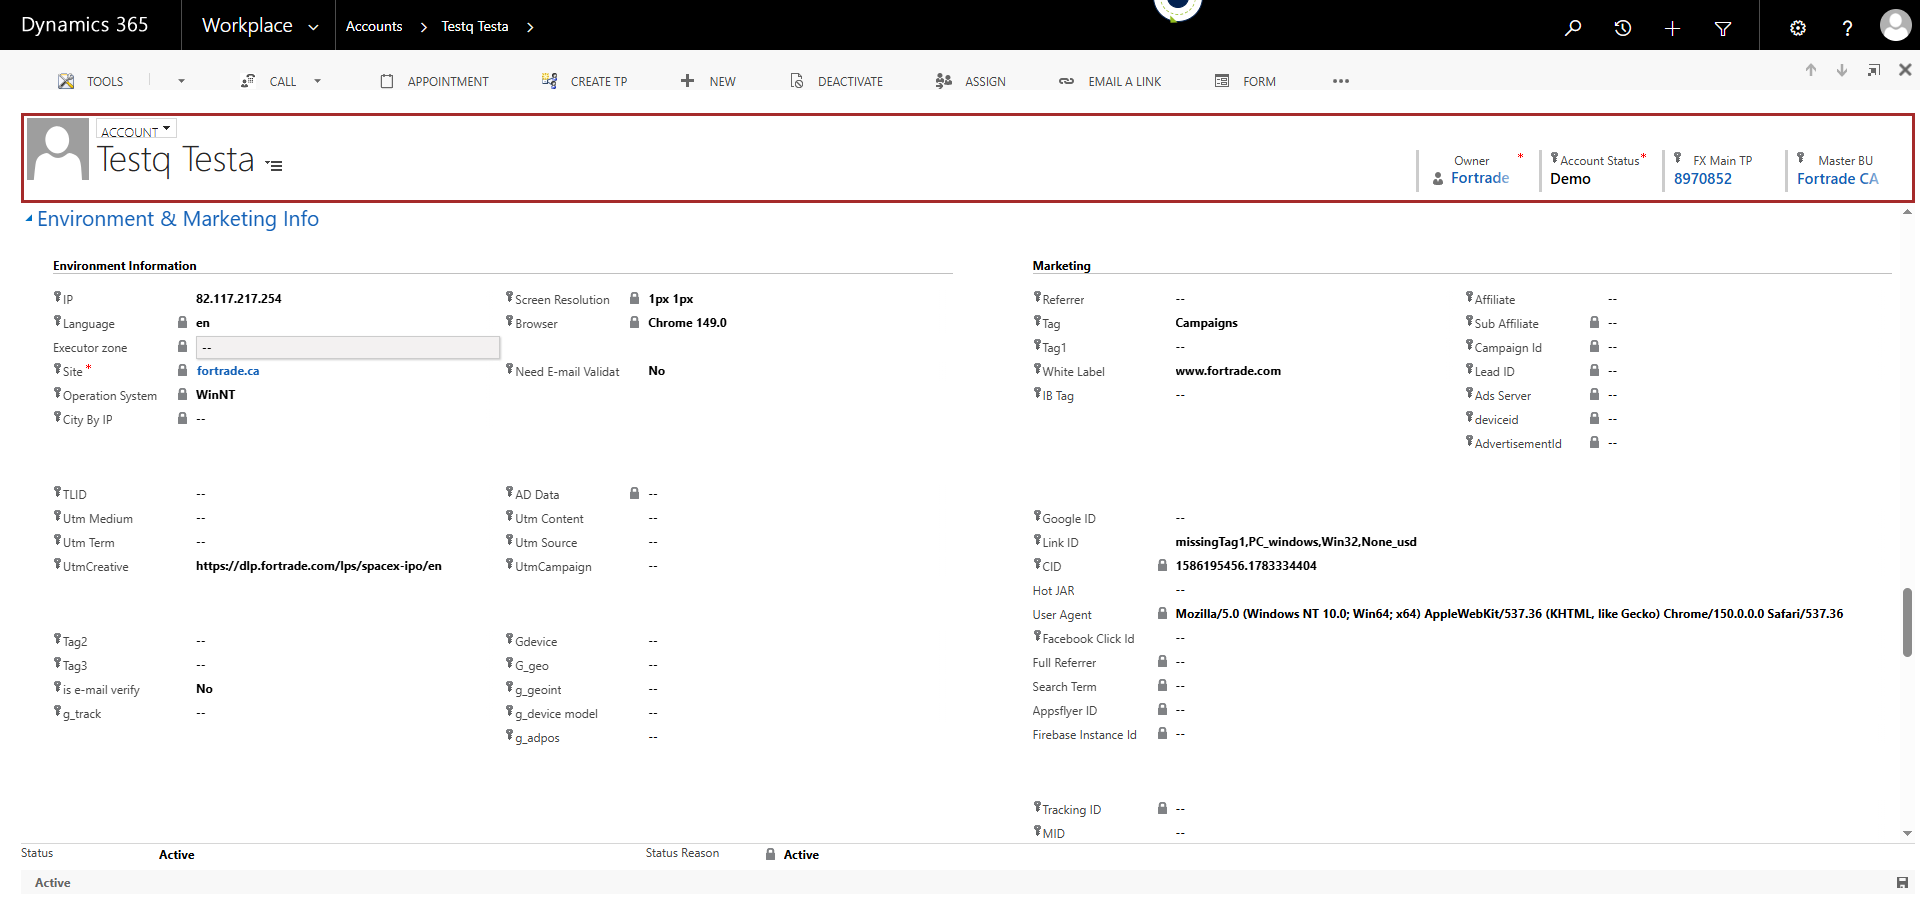
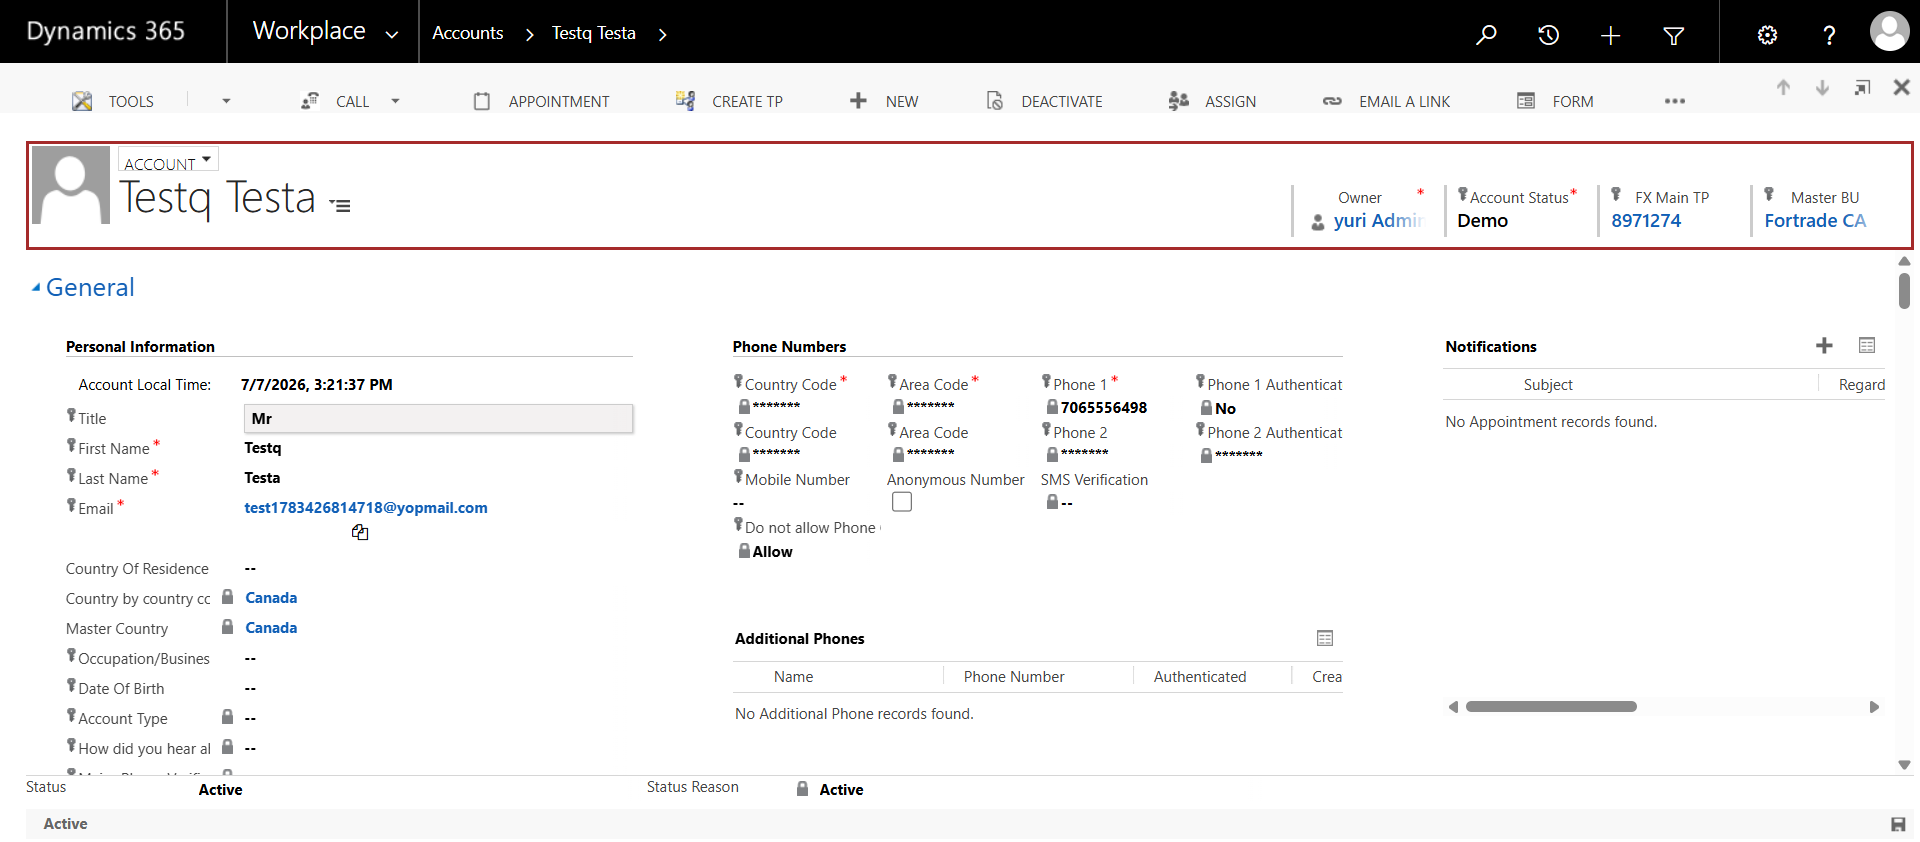
Added logic for device/system recogintion. Added logic for dfsa regulation recongnition.

diff --git a/src/test/java/tests/TestsFortrade/SpacexIpoEn.java b/src/test/java/tests/TestsFortrade/SpacexIpoEn.java
@@ -202,7 +202,7 @@ public class SpacexIpoEn extends BaseTest {
         Allure.step("Verified error message and border color for Phone field");
         ElementActions.type(fortradePage.phoneNumber,"0034334424558200", "phone");
         fortradePage.assertBorderColor(fortradePage.borderColorForPhone, "border-color", TestData.redBorderColor);
-        fortradePage.assertFirstStepErrorMessage(TestData.wrongPhoneErrorMessage);
+        fortradePage.assertFirstStepErrorMessage(TestData.wrongPhoneErrorMsgOther);
     }
 
     @Test(description = "TC 4.6 - Verify that the Last Name cannot be the same as First name.")
@@ -390,6 +390,7 @@ public class SpacexIpoEn extends BaseTest {
 
     @Test(description = "TC 8.1 - Verify the FRN: 609970 (FCA) link works with left click")
     @Parameters({"regulation"})
+    @RunForRegulations("fca")
     public void checkFcaLinkWithLeftClickTest(String regulation){
         ScreenshotUtil.setCustomName("Fca link - " + regulation);
         Allure.step("Left click on the FCA link.");
@@ -397,6 +398,7 @@ public class SpacexIpoEn extends BaseTest {
     }
 
     @Test(description = "TC 8.1.1 - Verify the FRN: 609970 (FCA) link works with right click")
+    @RunForRegulations("fca")
     public void checkFcaLinkWithRightClickTest(){
         Allure.step("Right click on the FCA link.");
         fortradePage.checkLinksWithRightClick(fortradePage.footerFCALink, "fca link", TestData.fcaUrl);
@@ -404,6 +406,7 @@ public class SpacexIpoEn extends BaseTest {
 
     @Test(description = "TC 8.2 - Verify the CRN: BC1148613 (IIROC) link works with left click")
     @Parameters({"regulation"})
+    @RunForRegulations("iiroc")
     public void checkIirocLinkWithLeftClickTest(String regulation){
         ScreenshotUtil.setCustomName("Iiroc link - " + regulation);
         Allure.step("Left click on the IIROC link.");
@@ -411,6 +414,7 @@ public class SpacexIpoEn extends BaseTest {
     }
 
     @Test(description = "TC 8.2.1 - Verify the CRN: BC1148613 (IIROC) link works with right click")
+    @RunForRegulations("iiroc")
     public void checkIirocLinkWithRightClickTest(){
         Allure.step("Right click on the IIROC link.");
         fortradePage.checkLinksWithRightClick(fortradePage.footerIIROCLink, "iiroc link", TestData.iirocUrl);
@@ -418,6 +422,7 @@ public class SpacexIpoEn extends BaseTest {
 
     @Test(description = "TC 8.3 - Verify the ABN: 33 614 683 831 | AFSL: 493520 (ASIC) link works with left click")
     @Parameters({"regulation"})
+    @RunForRegulations("Asic")
     public void checkAsicLinkWithLeftClickTest(String regulation){
         ScreenshotUtil.setCustomName("Asic link - " + regulation);
         Allure.step("Left click on the ASIC link.");
@@ -425,6 +430,7 @@ public class SpacexIpoEn extends BaseTest {
     }
 
     @Test(description = "TC 8.3.1 - Verify the ABN: 33 614 683 831 | AFSL: 493520 (ASIC) link works with right click")
+    @RunForRegulations("Asic")
     public void checkAsicLinkWithRightClickTest(){
         Allure.step("Right click on the ASIC link.");
         fortradePage.checkLinksWithRightClick(fortradePage.footerASICLink, "asic link", TestData.asicUrl);
@@ -432,6 +438,7 @@ public class SpacexIpoEn extends BaseTest {
 
     @Test(description = "TC 8.4 - Verify the CIF license number 385/20 (CYSEC) link works with left click")
     @Parameters({"regulation"})
+    @RunForRegulations("cysec")
     public void checkCysecLinkWithLeftClickTest(String regulation){
         ScreenshotUtil.setCustomName("Cysec link - " + regulation);
         Allure.step("Left click on the CYSEC link.");
@@ -439,6 +446,7 @@ public class SpacexIpoEn extends BaseTest {
     }
 
     @Test(description = "TC 8.4.1 - Verify the CIF license number 385/20 (CYSEC) link works with right click")
+    @RunForRegulations("cysec")
     public void checkCysecLinkWithRightClickTest(){
         Allure.step("Right click on the CYSEC link.");
         fortradePage.checkLinksWithRightClick(fortradePage.footerCYSECLink, "cysec link", TestData.cysecUrl);
@@ -446,6 +454,7 @@ public class SpacexIpoEn extends BaseTest {
 
     @Test(description = "TC 8.5 - Verify the GB21026472 (FSC) link works with left click")
     @Parameters({"regulation"})
+    @RunForRegulations("fsc")
     public void checkFscLinkWithLeftClickTest(String regulation){
         ScreenshotUtil.setCustomName("Fsc link - " + regulation);
         Allure.step("Left click on the FSC link.");
@@ -453,6 +462,7 @@ public class SpacexIpoEn extends BaseTest {
     }
 
     @Test(description = "TC 8.5.1 - Verify the GB21026472 (FSC) link works with right click")
+    @RunForRegulations("fsc")
     public void checkFscLinkWithRightClickTest(){
         Allure.step("Right click on the FSC link.");
         fortradePage.checkLinksWithRightClick(fortradePage.footerFSCLink, "fsc link", TestData.fscUrl);
@@ -460,6 +470,7 @@ public class SpacexIpoEn extends BaseTest {
 
     @Test(description = "TC 8.6 - Verify the F009856 (DFSA) link works with left click")
     @Parameters({"regulation"})
+    @RunForRegulations("dfsa")
     public void checkDfsaLinkWithLeftClickTest(String regulation){
         ScreenshotUtil.setCustomName("Dfsa link - " + regulation);
         Allure.step("Left click on the DFSA link.");
@@ -467,6 +478,7 @@ public class SpacexIpoEn extends BaseTest {
     }
 
     @Test(description = "TC 8.6.1 - Verify the F009856 (DFSA) link works with right click")
+    @RunForRegulations("dfsa")
     public void checkDfsaLinkWithRightClickTest(){
         Allure.step("Right click on the DFSA link.");
         fortradePage.checkLinksWithRightClick(fortradePage.footerDFSALink, "dfsa link", TestData.dfsaUrl);
@@ -477,7 +489,7 @@ public class SpacexIpoEn extends BaseTest {
     public void checkAccountRegulationTest(String regulation, String countryCode){
         ScreenshotUtil.setCustomName("Account regulation in CRM - Fortrade - " + regulation);
         String email = TestData.generateEmail();
-        fortradePage.registerDemoAccount(TestData.firstName,TestData.lastName,email,countryCode,TestData.canadaPhoneNumber());
+        fortradePage.registerDemoAccount(TestData.firstName,TestData.lastName,email,countryCode,TestData.generatePhoneNumber());
         readyFortrade.assertURL(TestData.appUrl);
         crmPage.checkCrmData(email,"Testq Testa",regulation);
     }
@@ -487,7 +499,7 @@ public class SpacexIpoEn extends BaseTest {
     public void checkAccountDetailsInCrmTest(String regulation, String countryCode){
         ScreenshotUtil.setCustomName("Account details in CRM - Fortrade - " + regulation);
         String email = TestData.generateEmail();
-        fortradePage.registerDemoAccount(TestData.firstName,TestData.lastName,email,countryCode,TestData.canadaPhoneNumber());
+        fortradePage.registerDemoAccount(TestData.firstName,TestData.lastName,email,countryCode,TestData.generatePhoneNumber());
         readyFortrade.assertURL(TestData.appUrl);
         crmPage.checkCrmData(email,"Testq Testa",regulation);
     }
@@ -505,7 +517,7 @@ public class SpacexIpoEn extends BaseTest {
         crmPage.checkCrmData(email,"Testq Testa",regulation);
         crmPage.checkCrmTags();
     }
-    @Test(description = "9.4. Verify that the Link ID field contains 'PC_windows' value in the CRM")
+    @Test(description = "9.4. Verify that the Link ID field contains 'PC_windows' or 'PC_Other' value in the CRM")
     @Parameters({"regulation", "countryCode", "tag"})
     public void checkLinkIDPCWindows(String regulation,String countryCode, String tag){
         ScreenshotUtil.setCustomName("Link ID tag contains the 'PC_windows' value " + regulation);
@@ -515,7 +527,7 @@ public class SpacexIpoEn extends BaseTest {
         fortradePage.registerDemoAccount(TestData.firstName,TestData.lastName,email,countryCode,TestData.canadaPhoneNumber());
         fortradePage.assertURL(TestData.appUrl);
         crmPage.checkCrmData(email,TestData.fullName,regulation);
-        crmPage.checkLinkIdValue("PC_windows");
+        crmPage.checkDeviceValue();
     }
 
     @Test(description = "TC 10.1. Verify the email is sent on the new account email")
@@ -864,7 +876,7 @@ public class SpacexIpoEn extends BaseTest {
     public void nonValidParameterInTheUrlTest(String regulation,String countryCode, String tag) throws IOException, AWTException {
         ScreenshotUtil.setCustomName("Demo account is successfully registered with wrong parameters in the URL - " + regulation);
         openUrl(baseUrl + "&fts=testq-testa");
-        fortradePage.registerDemoAccount(TestData.firstName,TestData.lastName,TestData.generateEmail(),countryCode,TestData.canadaPhoneNumber());
+        fortradePage.registerDemoAccount(TestData.firstName,TestData.lastName,TestData.generateEmail(),countryCode,TestData.generatePhoneNumber());
         readyFortrade.assertURL("https://ready.fortrade.com/");
         readyFortrade.clickUsePassBtn();
         readyFortrade.clickMenuBtn();
@@ -980,8 +992,13 @@ public class SpacexIpoEn extends BaseTest {
         ScreenshotUtil.setCustomName("Custom Tag - Dummy - device " + regulation + " regulation");
         String email = TestData.generateEmail();
         Allure.step("Redirected to the https://dlp.fortrade.com/lps/spacex-ipo/en?ftsquery=device-equals(1)&"+tag);
-        openUrl(baseUrl + "&ftsquery=device-equals(1)");
-        fortradePage.registerDemoAccount(TestData.firstName,TestData.lastName,email,countryCode,TestData.canadaPhoneNumber());
+        String os = System.getProperty("os.name").toLowerCase();
+        if(os.contains("win")){
+            openUrl(baseUrl + "&ftsquery=device-equals(1)");
+        }else{
+            openUrl(baseUrl + "&ftsquery=device-equals(2)");
+        }
+        fortradePage.registerDemoAccount(TestData.firstName,TestData.lastName,email,countryCode,TestData.generatePhoneNumber());
         fortradePage.assertURL(TestData.appUrl);
         crmPage.checkCrmData(email,TestData.fullName,regulation);
         crmPage.checkCustomTag("Dummy");
@@ -992,8 +1009,13 @@ public class SpacexIpoEn extends BaseTest {
         ScreenshotUtil.setCustomName("Custom Tag - Invalid - device " + regulation + " regulation");
         String email = TestData.generateEmail();
         Allure.step("Redirected to the https://dlp.fortrade.com/lps/spacex-ipo/en?ftsquery=device(1)&"+tag);
-        openUrl(baseUrl + "&ftsquery=device(1)");
-        fortradePage.registerDemoAccount(TestData.firstName,TestData.lastName,email,countryCode,TestData.canadaPhoneNumber());
+        String os = System.getProperty("os.name").toLowerCase();
+        if(os.contains("win")){
+            openUrl(baseUrl + "&ftsquery=device(1)");
+        }else{
+            openUrl(baseUrl + "&ftsquery=device(2)");
+        }
+        fortradePage.registerDemoAccount(TestData.firstName,TestData.lastName,email,countryCode,TestData.generatePhoneNumber());
         fortradePage.assertURL(TestData.appUrl);
         crmPage.checkCrmData(email,TestData.fullName,regulation);
         crmPage.checkCustomTag("Invalid");
@@ -1034,7 +1056,7 @@ public class SpacexIpoEn extends BaseTest {
         Allure.step("Redirected to the https://dlp.fortrade.com/lps/spacex-ipo/en?fts=age-annual-saving-knowledge-plang:all&"+tag);
         openUrl(baseUrl + "&fts=age-annual-saving-knowledge-plang:all");
         fortradePage.registerDemoAccountWithParameters(TestData.firstName,TestData.lastName,email,countryCode,
-                TestData.canadaPhoneNumber(), "45-54", "$15,000-$50,000", "$100,000-$250,000",
+                TestData.generatePhoneNumber(), "45-54", "$15,000-$50,000", "$100,000-$250,000",
                 "All the above","English");
         fortradePage.assertURL(TestData.appUrl);
         crmPage.checkCrmData(email,TestData.fullName,regulation);
@@ -1076,8 +1098,13 @@ public class SpacexIpoEn extends BaseTest {
         String email = TestData.generateEmail();
         Allure.step("Redirected to the https://dlp.fortrade.com/lps/spacex-ipo/en" +
                 "?ftsquery=device-equals(1)&dummyP=1&"+tag);
-        openUrl(baseUrl + "&ftsquery=device-equals(1)&dummyP=1");
-        fortradePage.registerDemoAccount(TestData.firstName,TestData.lastName,email,countryCode,TestData.canadaPhoneNumber());
+        String os = System.getProperty("os.name").toLowerCase();
+        if(os.contains("win")){
+            openUrl(baseUrl + "&ftsquery=device-equals(1)&dummyP=1");
+        }else{
+            openUrl(baseUrl + "&ftsquery=device-equals(2)&dummyP=1");
+        }
+        fortradePage.registerDemoAccount(TestData.firstName,TestData.lastName,email,countryCode,TestData.generatePhoneNumber());
         fortradePage.assertURL(TestData.appUrl);
         crmPage.checkCrmData(email,TestData.fullName,regulation);
         crmPage.checkCustomTag("DummyP");
@@ -1090,8 +1117,13 @@ public class SpacexIpoEn extends BaseTest {
         String email = TestData.generateEmail();
         Allure.step("Redirected to the https://dlp.fortrade.com/lps/spacex-ipo/en" +
                 "?ftsquery=device-equals(1)&dummyP=0&"+tag);
-        openUrl(baseUrl + "&ftsquery=device-equals(1)&dummyP=0");
-        fortradePage.registerDemoAccount(TestData.firstName,TestData.lastName,email,countryCode,TestData.canadaPhoneNumber());
+        String os = System.getProperty("os.name").toLowerCase();
+        if(os.contains("win")){
+            openUrl(baseUrl + "&ftsquery=device-equals(1)&dummyP=0");
+        }else{
+            openUrl(baseUrl + "&ftsquery=device-equals(2)&dummyp=0");
+        }
+        fortradePage.registerDemoAccount(TestData.firstName,TestData.lastName,email,countryCode,TestData.generatePhoneNumber());
         fortradePage.assertURL(TestData.appUrl);
         crmPage.checkCrmData(email,TestData.fullName,regulation);
         crmPage.checkCustomTag("Dummy");
@@ -1103,9 +1135,14 @@ public class SpacexIpoEn extends BaseTest {
         ScreenshotUtil.setCustomName("TC 23-3-Custom tag - Dummy value " + regulation + " regulation");
         String email = TestData.generateEmail();
         Allure.step("Redirected to the https://dlp.fortrade.com/lps/spacex-ipo/en" +
-                "?ftsquery=device-equals(1)&dummyp=1&"+tag);
-        openUrl(baseUrl + "&ftsquery=device-equals(1)&dummyp=1");
-        fortradePage.registerDemoAccount(TestData.firstName,TestData.lastName,email,countryCode,TestData.canadaPhoneNumber());
+                "?ftsquery=device-equals(1)&dummyp=1"+tag);
+        String os = System.getProperty("os.name").toLowerCase();
+        if(os.contains("win")){
+            openUrl(baseUrl + "&ftsquery=device-equals(1)&dummyp=1");
+        } else{
+            openUrl(baseUrl + "&ftsquery=device-equals(2)&dummyp=1");
+        }
+        fortradePage.registerDemoAccount(TestData.firstName,TestData.lastName,email,countryCode,TestData.generatePhoneNumber());
         fortradePage.assertURL(TestData.appUrl);
         crmPage.checkCrmData(email,TestData.fullName,regulation);
         crmPage.checkCustomTag("Dummy");
@@ -1118,7 +1155,7 @@ public class SpacexIpoEn extends BaseTest {
         String email = TestData.generateEmail();
         Allure.step("Redirected to the https://dlp.fortrade.com/lps/spacex-ipo/en?Dummy=true&"+tag);
         openUrl(baseUrl + "&Dummy=true");
-        fortradePage.registerDemoAccount(TestData.firstName,TestData.lastName,email,countryCode,TestData.canadaPhoneNumber());
+        fortradePage.registerDemoAccount(TestData.firstName,TestData.lastName,email,countryCode,TestData.generatePhoneNumber());
         fortradePage.assertURL(TestData.appUrl);
         crmPage.checkCrmData(email,TestData.fullName,regulation);
         crmPage.checkCustomTag("Dummy");
@@ -1131,7 +1168,7 @@ public class SpacexIpoEn extends BaseTest {
         String email = TestData.generateEmail();
         Allure.step("Redirected to the https://dlp.fortrade.com/lps/spacex-ipo/en?Dummy=1&"+tag);
         openUrl(baseUrl + "&Dummy=1");
-        fortradePage.registerDemoAccount(TestData.firstName,TestData.lastName,email,countryCode,TestData.canadaPhoneNumber());
+        fortradePage.registerDemoAccount(TestData.firstName,TestData.lastName,email,countryCode,TestData.generatePhoneNumber());
         fortradePage.assertURL(TestData.appUrl);
         crmPage.checkCrmData(email,TestData.fullName,regulation);
         crmPage.checkCustomTag("Dummy");
@@ -1144,7 +1181,7 @@ public class SpacexIpoEn extends BaseTest {
         String email = TestData.generateEmail();
         Allure.step("Redirected to the https://dlp.fortrade.com/lps/spacex-ipo/en?Dummy=false&"+tag);
         openUrl(baseUrl + "&Dummy=false");
-        fortradePage.registerDemoAccount(TestData.firstName,TestData.lastName,email,countryCode,TestData.canadaPhoneNumber());
+        fortradePage.registerDemoAccount(TestData.firstName,TestData.lastName,email,countryCode,TestData.generatePhoneNumber());
         fortradePage.assertURL(TestData.appUrl);
         crmPage.checkCrmData(email,TestData.fullName,regulation);
         crmPage.checkCustomTag("");
@@ -1157,7 +1194,7 @@ public class SpacexIpoEn extends BaseTest {
         String email = TestData.generateEmail();
         Allure.step("Redirected to the https://dlp.fortrade.com/lps/spacex-ipo/en?Dummy=0&"+tag);
         openUrl(baseUrl + "&Dummy=0");
-        fortradePage.registerDemoAccount(TestData.firstName,TestData.lastName,email,countryCode,TestData.canadaPhoneNumber());
+        fortradePage.registerDemoAccount(TestData.firstName,TestData.lastName,email,countryCode,TestData.generatePhoneNumber());
         fortradePage.assertURL(TestData.appUrl);
         crmPage.checkCrmData(email,TestData.fullName,regulation);
         crmPage.checkCustomTag("");
@@ -1170,7 +1207,7 @@ public class SpacexIpoEn extends BaseTest {
         String email = TestData.generateEmail();
         Allure.step("Redirected to the https://dlp.fortrade.com/lps/spacex-ipo/en?tag1=1452789330&"+tag);
         openUrl(baseUrl + "&tag1=1452789330");
-        fortradePage.registerDemoAccount(TestData.firstName,TestData.lastName,email,countryCode,TestData.canadaPhoneNumber());
+        fortradePage.registerDemoAccount(TestData.firstName,TestData.lastName,email,countryCode,TestData.generatePhoneNumber());
         fortradePage.assertURL(TestData.appUrl);
         crmPage.checkCrmData(email,TestData.fullName,regulation);
         crmPage.checkLinkIdValue("0.0953@1500");
@@ -1183,7 +1220,7 @@ public class SpacexIpoEn extends BaseTest {
         String email = TestData.generateEmail();
         Allure.step("Redirected to the https://dlp.fortrade.com/lps/spacex-ipo/en?tag1=123abc&"+tag);
         openUrl(baseUrl + "&tag1=123abc");
-        fortradePage.registerDemoAccount(TestData.firstName,TestData.lastName,email,countryCode,TestData.canadaPhoneNumber());
+        fortradePage.registerDemoAccount(TestData.firstName,TestData.lastName,email,countryCode,TestData.generatePhoneNumber());
         fortradePage.assertURL(TestData.appUrl);
         crmPage.checkCrmData(email,TestData.fullName,regulation);
         crmPage.checkLinkIdValue("missingTag1");
@@ -1196,7 +1233,7 @@ public class SpacexIpoEn extends BaseTest {
         String email = TestData.generateEmail();
         Allure.step("Redirected to the https://dlp.fortrade.com/lps/spacex-ipo/en?tag1=123456789&"+tag);
         openUrl(baseUrl + "&tag1=123456789");
-        fortradePage.registerDemoAccount(TestData.firstName,TestData.lastName,email,countryCode,TestData.canadaPhoneNumber());
+        fortradePage.registerDemoAccount(TestData.firstName,TestData.lastName,email,countryCode,TestData.generatePhoneNumber());
         fortradePage.assertURL(TestData.appUrl);
         crmPage.checkCrmData(email,TestData.fullName,regulation);
         crmPage.checkLinkIdValue("missingCID");
@@ -1209,7 +1246,7 @@ public class SpacexIpoEn extends BaseTest {
         String email = TestData.generateEmail();
         Allure.step("Redirected to the https://dlp.fortrade.com/lps/spacex-ipo/en?tag1=930863512&"+tag);
         openUrl(baseUrl + "&tag1=930863512");
-        fortradePage.registerDemoAccount(TestData.firstName,TestData.lastName,email,countryCode,TestData.canadaPhoneNumber());
+        fortradePage.registerDemoAccount(TestData.firstName,TestData.lastName,email,countryCode,TestData.generatePhoneNumber());
         fortradePage.assertURL(TestData.appUrl);
         crmPage.checkCrmData(email,TestData.fullName,regulation);
         crmPage.checkLinkIdValue("divByZero");
@@ -1222,7 +1259,7 @@ public class SpacexIpoEn extends BaseTest {
         String email = TestData.generateEmail();
         Allure.step("Redirected to the https://dlp.fortrade.com/lps/spacex-ipo/en?"+tag);
         openUrl(baseUrl);
-        fortradePage.registerDemoAccount(TestData.firstName,TestData.lastName,email,countryCode,TestData.canadaPhoneNumber());
+        fortradePage.registerDemoAccount(TestData.firstName,TestData.lastName,email,countryCode,TestData.generatePhoneNumber());
         fortradePage.assertURL(TestData.appUrl);
         crmPage.checkCrmData(email,TestData.fullName,regulation);
         crmPage.checkLinkIdValue("None_usd");

diff --git a/src/main/java/core/pages/CrmPage.java b/src/main/java/core/pages/CrmPage.java
@@ -194,10 +194,23 @@ public class CrmPage extends BasePage {
     public void checkLinkIdValue(String linkIdValue) {
        ElementActions.click(menuBtn, "menu button");
        ElementActions.click(envAndMarSec, "environment and marketing section button");
+       String linkIdVal = getText(linkId, "Link ID field from the CRM");
+       System.out.println("Link ID field value from the CRM " + linkIdVal);
+       //Assert.assertEquals(linkIdVal, linkIdValue);
+       Assert.assertTrue(linkIdVal.contains(linkIdValue));
+    }
+
+    public void checkDeviceValue(){
+        ElementActions.click(menuBtn, "menu button");
+        ElementActions.click(envAndMarSec, "environment and marketing section button");
         String linkIdVal = getText(linkId, "Link ID field from the CRM");
         System.out.println("Link ID field value from the CRM " + linkIdVal);
-        //Assert.assertEquals(linkIdVal, linkIdValue);
-        Assert.assertTrue(linkIdVal.contains(linkIdValue));
+        String os = System.getProperty("os.name").toLowerCase();
+        if(os.contains("win")){
+            Assert.assertTrue(linkIdVal.contains("PC_windows"));
+        }else {
+            Assert.assertTrue(linkIdVal.contains("PC_Other"));
+        }
     }
 
     public void assertBorderColorInCRM(String regulation) {
@@ -219,7 +232,10 @@ public class CrmPage extends BasePage {
                 borderColor = "rgb(0, 128, 0)";
                 break;
             case "cysec":
-                borderColor = "rgb(255, 192, 203)";
+                borderColor = "rgb(255, 165, 0)";
+                break;
+            case "dfsa":
+                borderColor = "rgb(255, 255, 0)";
                 break;
             default:
                 throw new IllegalArgumentException("Unknown regulation: " + regulation);

diff --git a/src/main/java/core/pages/ReadyFortrade.java b/src/main/java/core/pages/ReadyFortrade.java
@@ -62,6 +62,10 @@ public class ReadyFortrade extends BasePage {
                 //"Broker Fortrade Canada Limited CIRO - successfully registered demo account", regulationMsg);
             }
             break;
+            case "dfsa": {
+                Assert.assertEquals(actualText,"Broker: Fortrade (DIFC) Limited (DFSA)");
+            }
+            break;
             case "FSC":
             default: {
                 Assert.assertEquals(actualText, "Broker: Fortrade (Mauritius) Ltd (FSC)");
